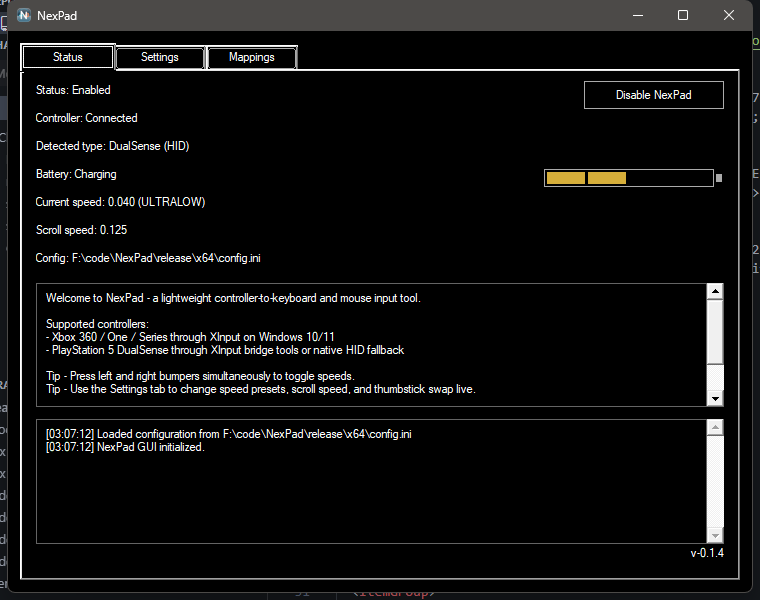
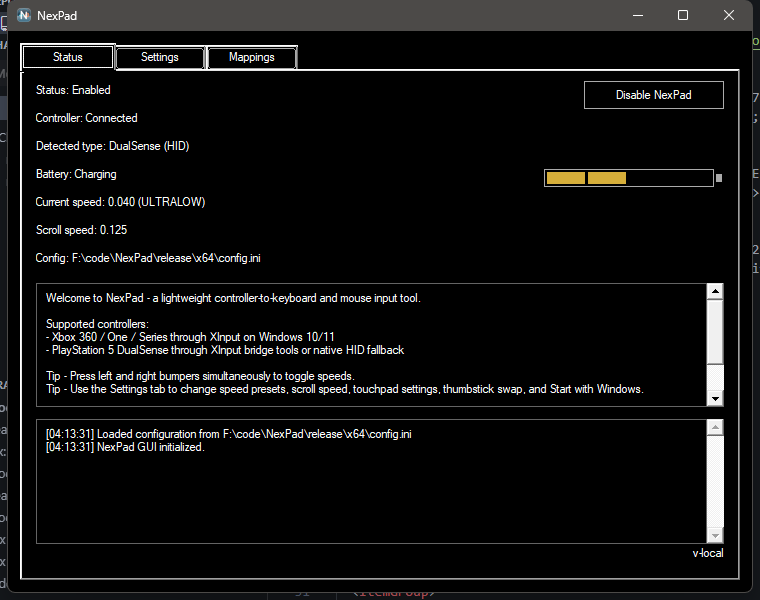
release: prepare v0.1.5
- refresh UI screenshots from current build

- add v0.1.5 release notes

- include latest local UI/resource formatting updates

diff --git a/Windows/NexPad/main.cpp b/Windows/NexPad/main.cpp
@@ -2440,7 +2440,7 @@ namespace
       state->swapCheck = CreateWindowExA(0, "BUTTON", "Swap thumbsticks", WS_CHILD | WS_VISIBLE | WS_TABSTOP | BS_OWNERDRAW,
                                          0, 0, 0, 0, state->settingsPage, reinterpret_cast<HMENU>(IDC_SWAP_CHECK), createStruct->hInstance, NULL);
       state->startWithWindowsCheck = CreateWindowExA(0, "BUTTON", "Start NexPad with Windows", WS_CHILD | WS_VISIBLE | WS_TABSTOP | BS_OWNERDRAW,
-                         0, 0, 0, 0, state->settingsPage, reinterpret_cast<HMENU>(IDC_START_WITH_WINDOWS_CHECK), createStruct->hInstance, NULL);
+                                                     0, 0, 0, 0, state->settingsPage, reinterpret_cast<HMENU>(IDC_START_WITH_WINDOWS_CHECK), createStruct->hInstance, NULL);
       state->presetListLabel = CreateWindowExA(0, "STATIC", "Preset list", WS_CHILD | WS_VISIBLE,
                                                12, 292, 160, 20, state->settingsPage, NULL, createStruct->hInstance, NULL);
       state->presetList = CreateWindowExA(0, "COMBOBOX", "", WS_CHILD | WS_VISIBLE | WS_TABSTOP | (kUseNativeComboPrototype ? CBS_DROPDOWN : (CBS_DROPDOWNLIST | CBS_OWNERDRAWFIXED | CBS_HASSTRINGS)) | WS_VSCROLL,

diff --git a/Windows/NexPad/resource.h b/Windows/NexPad/resource.h
@@ -10,22 +10,22 @@
 #define NEXPAD_STRINGIZE(value) NEXPAD_STRINGIZE_HELPER(value)
 
 #ifndef NEXPAD_FILE_VERSION
-#define NEXPAD_FILE_VERSION 0,0,0,0
+#define NEXPAD_FILE_VERSION 0, 0, 0, 0
 #endif
 
 #ifndef NEXPAD_PRODUCT_VERSION
 #define NEXPAD_PRODUCT_VERSION NEXPAD_FILE_VERSION
 #endif
 
-#define IDI_ICON1                       101
+#define IDI_ICON1 101
 
 // Next default values for new objects
-// 
+//
 #ifdef APSTUDIO_INVOKED
 #ifndef APSTUDIO_READONLY_SYMBOLS
-#define _APS_NEXT_RESOURCE_VALUE        102
-#define _APS_NEXT_COMMAND_VALUE         40001
-#define _APS_NEXT_CONTROL_VALUE         1001
-#define _APS_NEXT_SYMED_VALUE           101
+#define _APS_NEXT_RESOURCE_VALUE 102
+#define _APS_NEXT_COMMAND_VALUE 40001
+#define _APS_NEXT_CONTROL_VALUE 1001
+#define _APS_NEXT_SYMED_VALUE 101
 #endif
 #endif

diff --git a/docs/releases/v0.1.5.md b/docs/releases/v0.1.5.md
@@ -1,0 +1,51 @@
+NexPad v0.1.5
+=================
+
+Startup workflow and release trust-signal update.
+
+What Changed
+======
+
+* Added a new **Start with Windows** setting in the native Settings tab so users can enable or disable startup behavior from inside NexPad.
+* Wired startup behavior through persisted config (`START_WITH_WINDOWS`) and current-user Windows startup registration.
+* Added Windows executable file version metadata so file properties stay aligned with the shared build/release version flow.
+* Added a dedicated controller compatibility and troubleshooting guide:
+  * compatibility matrix by controller family and transport path
+  * common detection and transport troubleshooting steps
+  * reusable release hardware-validation matrix
+* Updated release workflow docs to reference the compatibility matrix during release validation.
+* Refreshed README screenshots to reflect the current UI.
+
+Validation
+======
+
+* Verified full solution matrix builds with `scripts/build-all.ps1`.
+* Verified local screenshot capture completes with `scripts/capture-screenshots.ps1` against `release/x64/NexPad.exe`.
+* Verified local release packaging with `scripts/package-release.ps1 -Version v0.1.5`.
+* Verified checksum validation with `scripts/verify-release-checksums.ps1`.
+
+Included Assets
+======
+
+* `NexPad-win32-v0.1.5.zip`
+* `NexPad-win32-v0.1.5.zip.sha256`
+* `NexPad-x64-v0.1.5.zip`
+* `NexPad-x64-v0.1.5.zip.sha256`
+
+Checksum Verification
+======
+
+Windows PowerShell example:
+
+```powershell
+$expected = (Get-Content .\NexPad-win32-v0.1.5.zip.sha256).Split(' ')[0]
+$actual = (Get-FileHash .\NexPad-win32-v0.1.5.zip -Algorithm SHA256).Hash.ToLower()
+$actual -eq $expected
+```
+
+Repeat the same check for the x64 archive before distribution or use.
+
+Notes
+======
+
+This release improves first-run and living-room usability by moving startup configuration into the app itself, while also improving release confidence through executable metadata alignment and clearer compatibility/troubleshooting documentation.
